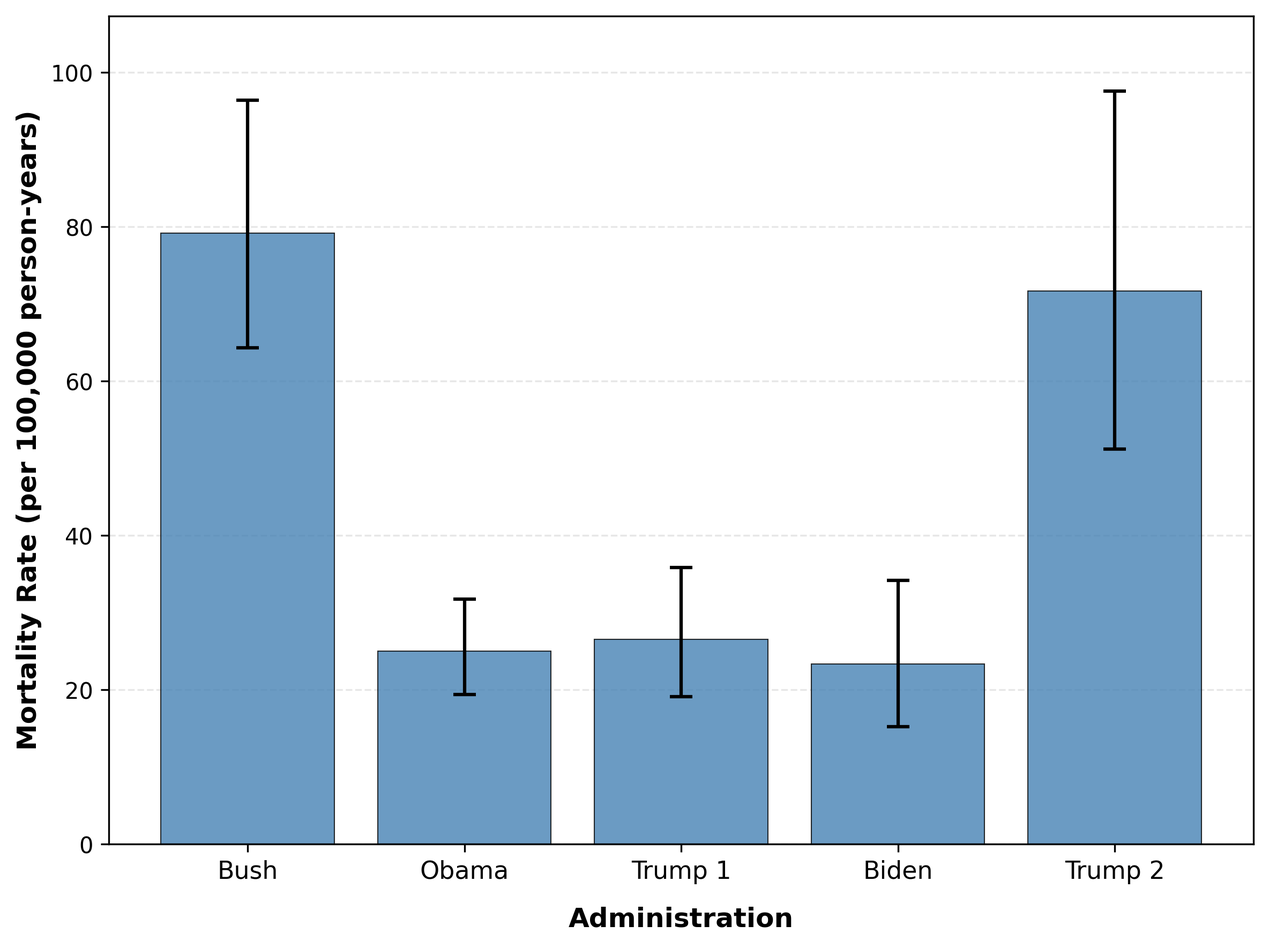
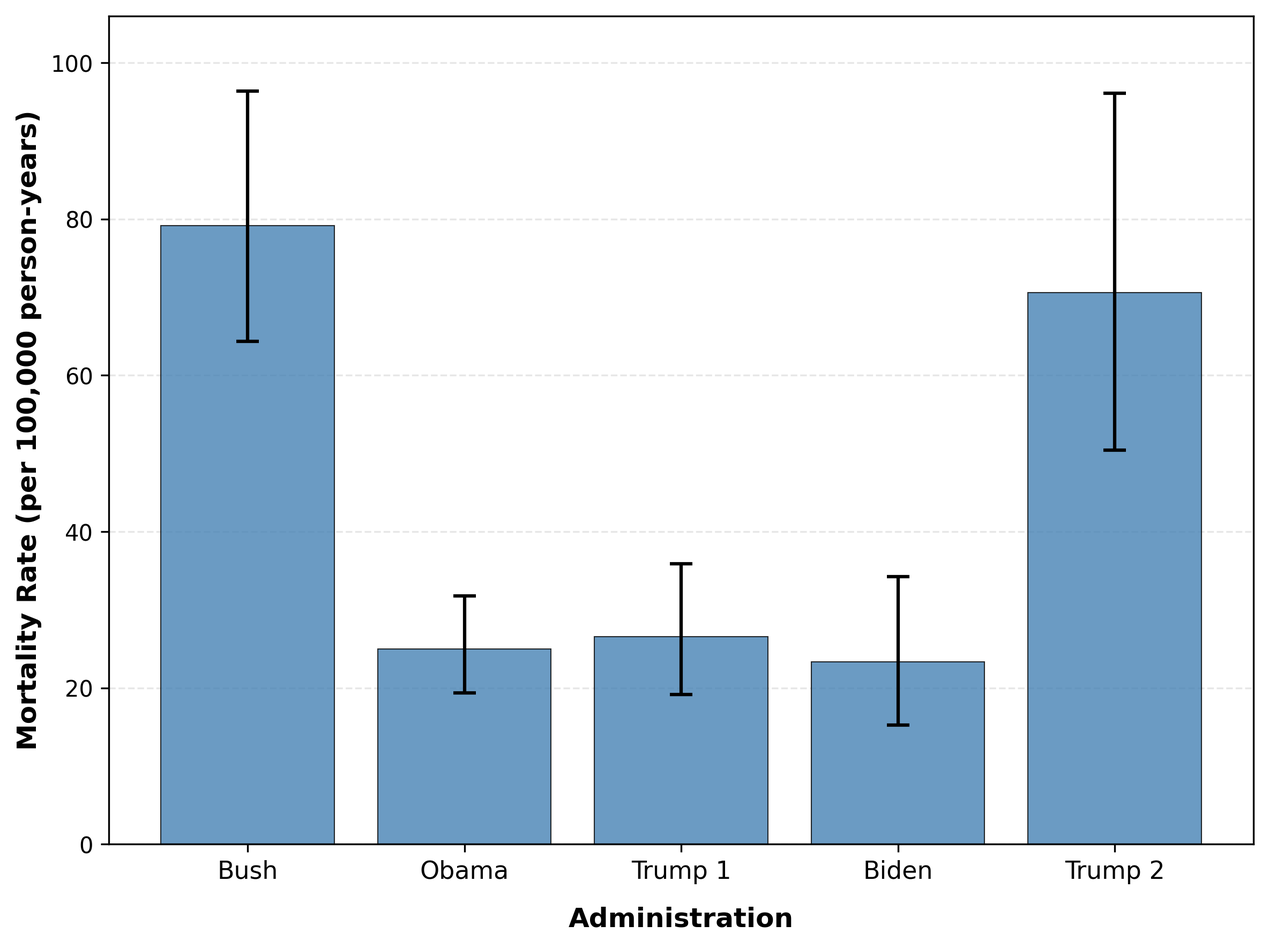
Add files via upload

diff --git a/replication_code/02_calculate_mortality_rates.py b/replication_code/02_calculate_mortality_rates.py
@@ -55,9 +55,9 @@ for admin, (start_fy, end_fy) in admin_fy_ranges.items():
     admin_adp = adp_df[(adp_df["fiscal_year"] >= start_fy) & (adp_df["fiscal_year"] <= end_fy)]
     person_years = admin_adp["adp"].sum()
 
-    # Add partial January 2026 person-time for Trump 2 (ICE Average Jan 2026 ADP = 58,998)
+    # Add partial January 2026 person-time for Trump 2 (ICE+CBP Average Jan 2026 ADP = 69,919.33)
     if admin == "Trump 2":
-        jan_2026_adp = 58998
+        jan_2026_adp = 69919.333333
         jan_2026_days = 29
         person_years += jan_2026_adp * (jan_2026_days / 365)
     

diff --git a/replication_code/03_generate_figures.py b/replication_code/03_generate_figures.py
@@ -72,9 +72,9 @@ for fy in sorted(adp_df_fy['fiscal_year'].unique()):
         'administration': adp_row['administration'].values[0],
     })
 
-# Add partial-year 2026 point using ICE-reported January ADP (58,998) and 29 days
+# Add partial-year 2026 point using January ADP (ICE+CBP average = 69,919.33) and 29 days
 partial_2026_days = 29
-jan_2026_adp = 58998
+jan_2026_adp = 69919.333333
 deaths_2026 = (details_df['Date_of_Death'].dt.year == 2026).sum()
 if deaths_2026 > 0:
     rate_2026 = (deaths_2026 / (jan_2026_adp * (partial_2026_days / 365))) * 100000

diff --git a/manuscript/MANUSCRIPT.md b/manuscript/MANUSCRIPT.md
@@ -14,7 +14,7 @@ Key Points
 
 Question: What are long-term mortality rates in US immigration detention facilities, and how do they vary by administration?
 
-Findings: In this retrospective cohort of 274 US Immigration and Customs Enforcement (ICE) in‑custody deaths (October 1, 2003–January 29, 2026), mortality rates per 100,000 person-year were highest during the Bush administration (79.2) and lower in subsequent administrations (23.3–26.5), followed by a marked increase under the second Trump administration (71.7). US Customs and Border Protection (CBP) deaths were reported as counts only because fiscal‑year denominators are not public.
+Findings: In this retrospective cohort of 274 US Immigration and Customs Enforcement (ICE) in‑custody deaths (October 1, 2003–January 29, 2026), mortality rates per 100,000 person-year were highest during the Bush administration (79.2) and lower in subsequent administrations (23.3–26.5), followed by a marked increase under the second Trump administration (70.6). US Customs and Border Protection (CBP) deaths were reported as counts only because fiscal‑year denominators are not public.
 
 Meaning: Epidemiological rate calculations show a recent increase in deaths within ICE facilities since 2024.
 
@@ -30,7 +30,7 @@ Exposures: Detention in ICE custody.
 
 Main Outcomes and Measures: Mortality rates per 100,000 person-years using average daily population denominators; rate ratios across administrations.
 
-Results: ICE mortality was highest under Bush (79.2 per 100,000 person-years; 95% CI, 64.3–96.4), lower under Obama (25.0; 95% CI, 19.4–31.7), Trump’s first term (26.5; 95% CI, 19.1–35.9), and Biden (23.3; 95% CI, 15.3–34.2), and rose in Trump’s second term (71.7; 95% CI, 51.2–97.6).
+Results: ICE mortality was highest under Bush (79.2 per 100,000 person-years; 95% CI, 64.3–96.4), lower under Obama (25.0; 95% CI, 19.4–31.7), Trump’s first term (26.5; 95% CI, 19.1–35.9), and Biden (23.3; 95% CI, 15.3–34.2), and rose in Trump’s second term (70.6; 95% CI, 50.4–96.1).
 
 Conclusions and Relevance: ICE mortality rates were highest during the agency’s inception, fell sharply and remained relatively stable for several administrations, and are climbing sharply again, underscoring the need for transparent, independent monitoring and improved custodial health oversight.
 
@@ -38,7 +38,7 @@ Introduction
 
 Immigration detention is a large custodial system that houses hundreds of thousands of people annually in more than 200 facilities. Mortality is a sentinel indicator of safety, yet U.S. Immigration and Customs Enforcement (ICE) deaths have typically been reported as annual counts without consistent denominators or long‑term trends.<sup>1, 2</sup> Public reports and advocacy group investigations highlight individual cases and possible under‑reporting, but a consolidated, reproducible epidemiological analysis across administrations has been scarce.<sup>3-5</sup> Peer‑reviewed studies have documented infectious disease outbreaks and sexual assault trends in ICE detention, underscoring broader health and safety concerns.<sup>6, 7</sup>
 
-We conduct a longitudinal analysis of deaths in ICE custody from October 1, 2003 through January 29, 2026, with calendar‑year 2025 and January 2026 updates, using official ICE sources and standardized average daily population (ADP) denominators. Mortality rates per 100,000 person‑years are compared across five presidential administrations, extending into January 2026 using ICE‑reported ADP (58,998) as a partial‑month denominator.<sup>15</sup> U.S. Customs and Border Protection (CBP) deaths are presented separately as counts because CBP population denominators are not publicly released.
+We conduct a longitudinal analysis of deaths in ICE custody from October 1, 2003 through January 29, 2026, with calendar‑year 2025 and January 2026 updates, using official ICE sources and standardized average daily population (ADP) denominators. Mortality rates per 100,000 person‑years are compared across five presidential administrations, extending into January 2026 using ICE‑reported ADP (69,919) as a partial‑month denominator.<sup>15</sup> U.S. Customs and Border Protection (CBP) deaths are presented separately as counts because CBP population denominators are not publicly released.
 
 Methods
 
@@ -46,13 +46,13 @@ Data Sources
 
 We studied both ICE deaths and CBP deaths.
 
-We conducted a retrospective cohort of all ICE in‑custody deaths from October 1, 2003 through January 29, 2026 using two official sources: (1) a Freedom of Information Act (FOIA) request covering fiscal-year (FY) 2004–2017 and (2) ICE’s Detainee Death Reporting webpage for FY2018–2025.<sup>8, 9</sup> Additional calendar‑year (CY) 2025 deaths and January 2026 deaths were compiled from public reporting and linked in the per‑death index. After de‑duplication by name and date of death, 274 unique deaths remained. Average Daily Population (ADP) provided denominators for mortality rates per 100,000 person‑years through CY2025 and for January 2026 using ICE‑reported ADP (58,998).<sup>10, 15</sup> ADP was compiled from ICE reports, FOIA releases, and TRAC estimates (CY2025).<sup>11-14</sup>
+We conducted a retrospective cohort of all ICE in‑custody deaths from October 1, 2003 through January 29, 2026 using two official sources: (1) a Freedom of Information Act (FOIA) request covering fiscal-year (FY) 2004–2017 and (2) ICE’s Detainee Death Reporting webpage for FY2018–2025.<sup>8, 9</sup> Additional calendar‑year (CY) 2025 deaths and January 2026 deaths were compiled from public reporting and linked in the per‑death index. After de‑duplication by name and date of death, 274 unique deaths remained. Average Daily Population (ADP) provided denominators for mortality rates per 100,000 person‑years through CY2025 and for January 2026 using ICE‑reported ADP (69,919).<sup>10, 15</sup> ADP was compiled from ICE reports, FOIA releases, and TRAC estimates (CY2025).<sup>11-14</sup>
 
 CBP deaths were handled separately as counts because CBP fiscal‑year ADP is not public. The US government definition of “CBP‑related deaths” (FY2021–FY2023) includes deaths in the presence of CBP; tables list arrest‑related and in‑custody deaths for FY2016–FY2023 under a narrower definition.<sup>16-24</sup> CBP “Death in Custody Statistics” (FY2017–FY2022) show 0–6 in‑custody deaths annually, with documented under‑reporting to Congress (31 vs. 20 deaths in FY2014–FY2019), so CBP results are presented with reliability caveats and without rate estimation.<sup>25, 26</sup> A merged ACLU/Southern Border Communities Coalition dataset (624 CBP‑related deaths; 61 in‑custody) is provided for transparency but not used for rates.<sup>27</sup>
 
 Statistical Analysis
 
-Mortality rates for ICE deaths were calculated per 100,000 person‑years by summing ADP within each interval and assigning deaths by date to administrations (Bush, Obama, Trump’s first term [hereafter, Trump 1], Biden, Trump’s second term [hereafter, Trump 2]). Rates extend through January 29, 2026 using ICE‑reported January 2026 ADP (58,998) as a partial‑month denominator.<sup>15</sup>
+Mortality rates for ICE deaths were calculated per 100,000 person‑years by summing ADP within each interval and assigning deaths by date to administrations (Bush, Obama, Trump’s first term [hereafter, Trump 1], Biden, Trump’s second term [hereafter, Trump 2]). Rates extend through January 29, 2026 using ICE‑reported January 2026 ADP (69,919) as a partial‑month denominator.<sup>15</sup>
 
 CBP results were summarized as annual counts by source/definition (arrest‑related, in‑custody, and “CBP‑related”).
 
@@ -68,17 +68,17 @@ This study used publicly available, aggregate/record‑level information reporte
 
 Results
 
-ICE ADP ranged from 19,619 (FY2005) to 58,998 (January 2026 ICE‑reported partial‑month ADP<sup>15</sup>), peaking in early Trump 2 after rising during Biden and late Trump 1. We identified 274 deaths with complete sex, facility, and location data (age missing for 1); annual counts ranged from 3 (FY2022) to 32 (CY2025), with 8 deaths recorded through January 29, 2026. The dataset consisted of 172 deaths obtained from FOIA requests, 77 deaths with individual reports from ICE, and 25 deaths extracted from public reporting; the latter two provide narrative detail for cause/facility descriptions.
+ICE ADP ranged from 19,619 (FY2005) to 69,919 (January 2026 ICE‑reported partial‑month ADP<sup>15</sup>), peaking in early Trump 2 after rising during Biden and late Trump 1. We identified 274 deaths with complete sex, facility, and location data (age missing for 1); annual counts ranged from 3 (FY2022) to 32 (CY2025), with 8 deaths recorded through January 29, 2026. The dataset consisted of 172 deaths obtained from FOIA requests, 77 deaths with individual reports from ICE, and 25 deaths extracted from public reporting; the latter two provide narrative detail for cause/facility descriptions.
 
 Median age at death was 45 years (IQR 34–55); 91.2% were male. Deaths spanned facility types; private/contract facilities accounted for 23.0% of all deaths (eTable 9). Within FY2018–FY2026 reports (N=102), 37.3% occurred in private/contract facilities. Causes were heterogeneous; COVID‑19 was listed in 11 deaths (10 in FY2020, 1 in FY2021) (eTables 7-8).
 
 ICE Mortality Rates by Administration
 
-Rates for Bush, Obama, Trump 1, and Biden were 79.2 per 100,000 person‑years (95% CI: 64.3–96.4), 25.0 (95% CI: 19.4–31.7), 26.5 (95% CI: 19.1–35.9), and 23.3 (95% CI: 15.3–34.2), respectively. Rates under Trump 2 have resurged to 71.7 (95% CI: 51.2–97.6), incorporating January 2026 with ICE‑reported ADP (58,998) as a partial‑month denominator.<sup>15</sup> See Table 1 for the full administration‑level summary of deaths, person‑years, rates, confidence intervals, and rate ratios, and Figure 1 for a visual summary with 95 percent confidence intervals.
+Rates for Bush, Obama, Trump 1, and Biden were 79.2 per 100,000 person‑years (95% CI: 64.3–96.4), 25.0 (95% CI: 19.4–31.7), 26.5 (95% CI: 19.1–35.9), and 23.3 (95% CI: 15.3–34.2), respectively. Rates under Trump 2 have resurged to 70.6 (95% CI: 50.4–96.1), incorporating January 2026 with ICE‑reported ADP (69,919) as a partial‑month denominator.<sup>15</sup> See Table 1 for the full administration‑level summary of deaths, person‑years, rates, confidence intervals, and rate ratios, and Figure 1 for a visual summary with 95 percent confidence intervals.
 
 ICE Mortality Rate Trends by Fiscal Year
 
-Mortality rates declined sharply after FY2008 and clustered at lower levels for several years, but the annual series shows renewed increase in the most recent period: FY2021–FY2023 ranged from 13.0 to 24.8 per 100,000 person‑years, rising to 39.7 in 2024 and 62.6 in 2025 (CY2025 base denominator; 65.3 using the FY2025 mean; 80.6 using the Jan 12, 2025 snapshot). Using ICE’s reported January 2026 ADP (58,998), the Trump 2 administration rate through January 29, 2026 is 71.7 per 100,000 person‑years (partial‑month denominator).<sup>15</sup> Cumulative deaths by days into each administration highlight the steep slope during ICE’s inception under Bush, the climb during the COVID‑19 period of Trump 1, and pronounced rise during Trump 2 (Figure 3). Figure 2 provides a three‑panel view: panel A plots ADP by year, panel B shows annual death counts, and panel C shows mortality rates per year.
+Mortality rates declined sharply after FY2008 and clustered at lower levels for several years, but the annual series shows renewed increase in the most recent period: FY2021–FY2023 ranged from 13.0 to 24.8 per 100,000 person‑years, rising to 39.7 in 2024 and 62.6 in 2025 (CY2025 base denominator; 65.3 using the FY2025 mean; 80.6 using the Jan 12, 2025 snapshot). Using ICE’s reported January 2026 ADP (69,919), the Trump 2 administration rate through January 29, 2026 is 70.6 per 100,000 person‑years (partial‑month denominator).<sup>15</sup> Cumulative deaths by days into each administration highlight the steep slope during ICE’s inception under Bush, the climb during the COVID‑19 period of Trump 1, and pronounced rise during Trump 2 (Figure 3). Figure 2 provides a three‑panel view: panel A plots ADP by year, panel B shows annual death counts, and panel C shows mortality rates per year.
 
 CBP Mortality Counts
 
@@ -88,7 +88,7 @@ However, the General Accountability Office audit found CBP under-reported in‑c
 
 Sensitivity Analyses
 
-Sensitivity analyses yielded consistent inferences. Using different denominator options did not substantially impact results; using FY2025 daily‑series average (ADP ≈ 48,984) yields a Trump 2 rate of 74.5 per 100,000 when January 2026 is included with ICE‑reported ADP (58,998). Using an annual January 2025 census snapshot (ADP = 39,703) increases the Trump 2 rate to 90.1 per 100,000 under the same January 2026 assumption, and excluding 2025 entirely produces a Biden‑period rate of 20.7 per 100,000 (95% CI: 13.1–31.0). Excluding the 11 deaths attributed to COVID‑19 lowers Trump 1 to 21.5 per 100,000 and Biden to 20.7 per 100,000; Bush, Obama, and Trump 2 rates are otherwise unchanged. Bounding analyses using the lowest observed annual ADP (20,152 in 2021) and the highest (51,130 in 2025) does not change the conclusion that Bush and Trump 2 are outliers and that the administrations between those two had overlapping rates.
+Sensitivity analyses yielded consistent inferences. Using different denominator options did not substantially impact results; using FY2025 daily‑series average (ADP ≈ 48,984) yields a Trump 2 rate of 73.3 per 100,000 when January 2026 is included with ICE‑reported ADP (69,919). Using an annual January 2025 census snapshot (ADP = 39,703) increases the Trump 2 rate to 88.4 per 100,000 under the same January 2026 assumption, and excluding 2025 entirely produces a Biden‑period rate of 20.7 per 100,000 (95% CI: 13.1–31.0). Excluding the 11 deaths attributed to COVID‑19 lowers Trump 1 to 21.5 per 100,000 and Biden to 20.7 per 100,000; Bush, Obama, and Trump 2 rates are otherwise unchanged. Bounding analyses using the lowest observed annual ADP (20,152 in 2021) and the highest (51,130 in 2025) does not change the conclusion that Bush and Trump 2 are outliers and that the administrations between those two had overlapping rates.
 
 Discussion
 
@@ -96,7 +96,7 @@ ICE mortality was highest during the Bush administration (79.2 per 100,000 perso
 
 Limitations
 
-Limitations include possible under‑ascertainment of post‑release deaths and minors; preliminary causes in recent reports; use of a partial‑month January 2026 ADP (58,998) for rate estimation and the absence of a full CY2026 ADP series (the January value is an average daily population for the period and is not expected to systematically underestimate person‑time); lack of person‑time by facility, sex, or age; unobserved deaths after transfer abroad; and CBP results limited to counts because ADP is unavailable and reporting has documented reliability gaps.<sup>25, 26</sup> Media and advocacy reports describe deaths of minors in immigration custody and deaths after transfer abroad that would not appear in ICE in‑custody lists.<sup>32-35</sup> Morbidity and care quality indicators are not assessed. Facility‑specific rates cannot be calculated without person‑time, limiting inference about private versus government facilities. COVID‑19 deaths clustered in 2020–2021. Questions regarding the accuracy of reported ICE detention death data and potential underreporting underscore the need for independent, third‑party oversight of all ICE facilities and ICE‑related deaths.<sup>36</sup> Recent reporting suggests that ICE has not processed claims for detainee medical care since October 2025 and will not until at least May 2026, raising concerns about continuity of medical services in detention.<sup>37</sup>
+Limitations include possible under‑ascertainment of post‑release deaths and minors; preliminary causes in recent reports; use of a partial‑month January 2026 ADP (69,919) for rate estimation and the absence of a full CY2026 ADP series (the January value is an average daily population for the period and is not expected to systematically underestimate person‑time); lack of person‑time by facility, sex, or age; unobserved deaths after transfer abroad; and CBP results limited to counts because ADP is unavailable and reporting has documented reliability gaps.<sup>25, 26</sup> Media and advocacy reports describe deaths of minors in immigration custody and deaths after transfer abroad that would not appear in ICE in‑custody lists.<sup>32-35</sup> Morbidity and care quality indicators are not assessed. Facility‑specific rates cannot be calculated without person‑time, limiting inference about private versus government facilities. COVID‑19 deaths clustered in 2020–2021. Questions regarding the accuracy of reported ICE detention death data and potential underreporting underscore the need for independent, third‑party oversight of all ICE facilities and ICE‑related deaths.<sup>36</sup> Recent reporting suggests that ICE has not processed claims for detainee medical care since October 2025 and will not until at least May 2026, raising concerns about continuity of medical services in detention.<sup>37</sup>
 
 Conclusions
 
@@ -164,17 +164,17 @@ Table 1. Deaths, person-years, and mortality rates by administration (FY2004–J
 | Obama | 67 | 268,076 | 25.0 | 19.4–31.7 | 1.07 (0.67–1.69) |
 | Trump 1 | 42 | 158,227 | 26.5 | 19.1–35.9 | 1.14 (0.70–1.85) |
 | Biden | 26 | 111,353 | 23.3 | 15.3–34.2 | — |
-| Trump 2 | 40 | 55,818 | 71.7 | 51.2–97.6 | 3.07 (1.87–5.03) |
+| Trump 2 | 40 | 56,685 | 70.6 | 50.4–96.1 | 3.02 (1.84–4.95) |
 
-Notes: Person-years were computed as the sum of the Average Daily Population (ADP) for fiscal years within each administration, plus a partial‑month January 2026 denominator for Trump 2 (ICE‑reported ADP = 58,998; 29 days). Rates are per 100,000 person-years. Confidence intervals for rates were computed using exact Poisson methods. Rate ratios compare each administration with Biden using log-rate approximations. CY2025 ADP uses the TRAC daily‑series calendar‑year average (see reference<sup>13</sup>); sensitivity analyses consider alternative denominators, including the TRAC FY2025 mean (48,984) and the Jan 12, 2025 census snapshot (39,703).
+Notes: Person-years were computed as the sum of the Average Daily Population (ADP) for fiscal years within each administration, plus a partial‑month January 2026 denominator for Trump 2 (ICE‑reported ADP = 69,919; 29 days). Rates are per 100,000 person-years. Confidence intervals for rates were computed using exact Poisson methods. Rate ratios compare each administration with Biden using log-rate approximations. CY2025 ADP uses the TRAC daily‑series calendar‑year average (see reference<sup>13</sup>); sensitivity analyses consider alternative denominators, including the TRAC FY2025 mean (48,984) and the Jan 12, 2025 census snapshot (39,703).
 
 Figure 1. Mortality rates by presidential administration, FY2004–Jan 29, 2026
 
-Legend: Bars indicate mortality rates per 100,000 person-years; error bars show 95 percent confidence intervals computed via exact Poisson methods. Deaths were assigned to administrations by date of death. Person-time was calculated from ADP. CY2025 uses the TRAC calendar‑year average ADP; January 2026 uses ICE‑reported ADP (58,998) as a partial‑month denominator.
+Legend: Bars indicate mortality rates per 100,000 person-years; error bars show 95 percent confidence intervals computed via exact Poisson methods. Deaths were assigned to administrations by date of death. Person-time was calculated from ADP. CY2025 uses the TRAC calendar‑year average ADP; January 2026 uses ICE‑reported ADP (69,919) as a partial‑month denominator.
 
 Figure 2. Trends by year (panel A: ADP; panel B: deaths; panel C: mortality rates)
 
-Legend: Panel A plots Average Daily Population (ADP) by year (y-axis starts at zero to show absolute variation); panel B shows annual death counts; panel C shows mortality rates per 100,000 person-years. All panels start at FY2004 (study start), and vertical dotted lines mark administration transitions. Rates use annual ADP denominators; 2025 reflects calendar‑year deaths and the CY2025 ADP. Calendar‑year ADP is not publicly reported for all prior years, so fiscal‑year ADP averages are used for earlier denominators. The 2026 point uses ICE‑reported January 2026 ADP (58,998) with a 29‑day partial‑month denominator.
+Legend: Panel A plots Average Daily Population (ADP) by year (y-axis starts at zero to show absolute variation); panel B shows annual death counts; panel C shows mortality rates per 100,000 person-years. All panels start at FY2004 (study start), and vertical dotted lines mark administration transitions. Rates use annual ADP denominators; 2025 reflects calendar‑year deaths and the CY2025 ADP. Calendar‑year ADP is not publicly reported for all prior years, so fiscal‑year ADP averages are used for earlier denominators. The 2026 point uses ICE‑reported January 2026 ADP (69,919) with a 29‑day partial‑month denominator.
 
 Figure 3. Cumulative deaths by days into the administration
 

diff --git a/manuscript/APPENDIX.md b/manuscript/APPENDIX.md
@@ -59,7 +59,7 @@ We conducted a retrospective cohort study of all individuals detained in ICE cus
 
 #### Administration Assignment
 
-Deaths were assigned to administrations by date of death with periods defined as: Bush (January 20, 2001–January 19, 2009), Obama (January 20, 2009–January 19, 2017), Trump 1 (January 20, 2017–January 19, 2021), Biden (January 20, 2021–January 19, 2025), and Trump 2 (January 20, 2025–January 29, 2026). Rate analyses extend through January 29, 2026 using ICE‑reported January 2026 ADP (58,998) as a partial‑month denominator; as an average daily population for the period, this denominator is not expected to systematically underestimate person‑time.<sup>15</sup>
+Deaths were assigned to administrations by date of death with periods defined as: Bush (January 20, 2001–January 19, 2009), Obama (January 20, 2009–January 19, 2017), Trump 1 (January 20, 2017–January 19, 2021), Biden (January 20, 2021–January 19, 2025), and Trump 2 (January 20, 2025–January 29, 2026). Rate analyses extend through January 29, 2026 using ICE‑reported January 2026 ADP (69,919) as a partial‑month denominator; as an average daily population for the period, this denominator is not expected to systematically underestimate person‑time.<sup>15</sup>
 
 #### Statistical Analysis
 
@@ -130,7 +130,7 @@ Outputs
 Denominator (2025–Jan 2026)
 
 - TRAC daily series (see eTable 1, TRAC report): CY mean (≈51,130) used in base case; FY mean (≈48,984) and Jan‑12 snapshot (39,703) included in sensitivity (eTable 3).
-- ICE FY2026 detention statistics: January 2026 ICE Average Daily Population (ADP = 58,998) used as a partial‑month denominator through January 29, 2026.
+- ICE FY2026 detention statistics: January 2026 ICE Average Daily Population (ADP = 69,919) used as a partial‑month denominator through January 29, 2026.
 
 ---
 
@@ -144,7 +144,7 @@ Denominator (2025–Jan 2026)
 | 2007–2009 | ICE Total Removals Report | https://www.ice.gov/doclib/about/offices/ero/pdf/ice-removals-2009.pdf | Extracted from historical annual reports. |
 | 2010–2024 | ICE Enforcement and Removal Operations Reports | https://www.ice.gov/statistics | Annual ICE statistical reports. |
 | 2025 | TRAC Immigration | https://tracreports.org/reports/753/ | ICE has not published FY2025 ADP; analyses use the TRAC CY2025 daily-series average (≈51,130) with sensitivity at the FY2025 mean (≈48,984) and the Jan 12 snapshot (39,703). |
-| 2026 (Jan 1–29) | US Immigration and Customs Enforcement | https://www.ice.gov/doclib/detention/FY26_detentionStats01082026.xlsx | January 2026 ICE ADP (58,998) from FY2026 detention statistics updated January 8, 2026; used as a partial‑month denominator. |
+| 2026 (Jan 1–29) | US Immigration and Customs Enforcement | https://www.ice.gov/doclib/detention/FY26_detentionStats01082026.xlsx | January 2026 ICE ADP (69,919) from FY2026 detention statistics updated January 8, 2026; used as a partial‑month denominator. |
 
 Legend. ADP sources used to compute person‑years for mortality estimates by fiscal year and administration.
 
@@ -164,11 +164,11 @@ Legend. Age statistics were computed from dates of birth and death; age is missi
 
 | Scenario | Bush | Obama | Trump 1 | Biden | Trump 2 |
 | :------- | ---: | ----: | ------: | ----: | ------: |
-| Base (TRAC CY2025 ADP ≈ 51,130 + Jan 2026 ADP = 58,998) | 79.17 | 24.99 | 26.54 | 23.35 | 71.66 |
+| Base (TRAC CY2025 ADP ≈ 51,130 + Jan 2026 ADP = 69,919) | 79.17 | 24.99 | 26.54 | 23.35 | 70.57 |
 | Exclude 2025 | 79.17 | 24.99 | 26.54 | 20.66 | — |
-| FY2025 ADP ≈ 48,984 (TRAC) + Jan 2026 ADP | 79.17 | 24.99 | 26.54 | 23.35 | 74.53 |
-| Jan 12, 2025 snapshot (ADP = 39,703) + Jan 2026 ADP | 79.17 | 24.99 | 26.54 | 23.35 | 90.11 |
-| Excluding COVID‑19 deaths | 79.17 | 24.99 | 21.49 | 20.66 | 71.66 |
+| FY2025 ADP ≈ 48,984 (TRAC) + Jan 2026 ADP | 79.17 | 24.99 | 26.54 | 23.35 | 73.34 |
+| Jan 12, 2025 snapshot (ADP = 39,703) + Jan 2026 ADP | 79.17 | 24.99 | 26.54 | 23.35 | 88.38 |
+| Excluding COVID‑19 deaths | 79.17 | 24.99 | 21.49 | 20.66 | 70.57 |
 
 Legend. Rates recomputed under alternative denominators and removing COVID‑19‑attributed deaths. Relative administration patterns are robust.
 

diff --git a/README.md b/README.md
@@ -1,4 +1,4 @@
-# ICE Detention Mortality Analysis
+# ICE Detention Mortality Analysis: Complete Package (FY2004–Jan 2026)
 
 **All 274 Deaths with Complete Details**
 
@@ -111,7 +111,7 @@ Complete Python scripts to reproduce all analyses:
 - Obama (2009-2017): 24.99 per 100k (67 deaths)
 - Trump 1 (2017-2021): 26.54 per 100k (42 deaths)
 - Biden (2021-2025): 23.35 per 100k (26 deaths)
-- Trump 2 (2025–Jan 29, 2026): 71.66 per 100k (40 deaths; January 2026 uses ICE‑reported ADP 58,998 as a partial‑month denominator)
+- Trump 2 (2025–Jan 29, 2026): 70.57 per 100k (40 deaths; January 2026 uses ICE‑reported ADP 69,919 as a partial‑month denominator)
 
 **Cause of Death (FY2018–2026, n=102):**
 - Cardiovascular: 20 deaths (19.6%)
@@ -179,3 +179,26 @@ See `medical_review/COMPLETE_MEDICAL_REVIEW.md` for:
 **To access source PDFs:**
 - Web browser with PDF support
 
+---
+
+## Citation
+
+If using this data or analysis, please cite:
+
+> Mortality in U.S. Immigration and Customs Enforcement Detention, Fiscal Years 2004-2025: An Epidemiological Analysis. [Journal], 2025.
+
+---
+
+## Contact
+
+For questions about the data or methodology, refer to:
+- Manuscript and appendix for complete methods
+- Source documents guide for data sources
+- Medical review summary for clinical analysis
+
+---
+
+**Package Version:** 2.2 (Complete - All 274 Deaths)
+**Last Updated:** January 2026 (age and facility location fully populated for all 274 deaths via FOIA PDF extraction, ICE individual reports, and public reporting updates)
+**Total Deaths:** 274 (FY2004–Jan 2026)
+**Complete Data:** 100%

diff --git a/source_documents/SOURCE_DOCUMENTS_GUIDE.md b/source_documents/SOURCE_DOCUMENTS_GUIDE.md
@@ -83,7 +83,7 @@ https://www.ice.gov/doclib/foia/reports/ddr[LastName][FirstName].pdf
 ### January 2026 (partial): ICE FY2026 Detention Statistics
 **Source:** US Immigration and Customs Enforcement
 **URL:** https://www.ice.gov/doclib/detention/FY26_detentionStats01082026.xlsx
-**Note:** January 2026 ICE Average Daily Population (ADP = 58,998) used as a partial‑month denominator through January 29, 2026.
+**Note:** January 2026 ICE Average Daily Population (ADP = 69,919) used as a partial‑month denominator through January 29, 2026.
 
 ---
 
